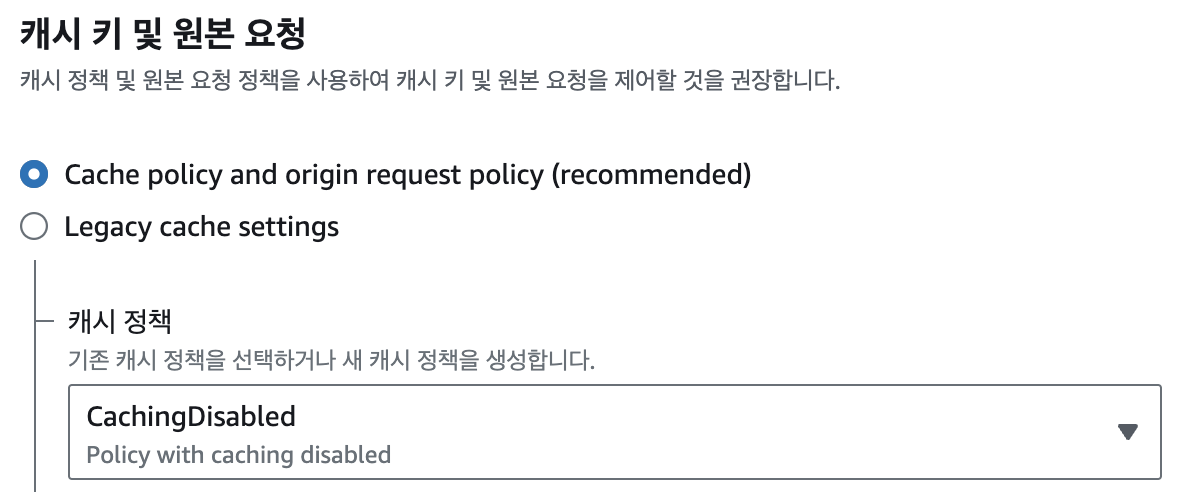
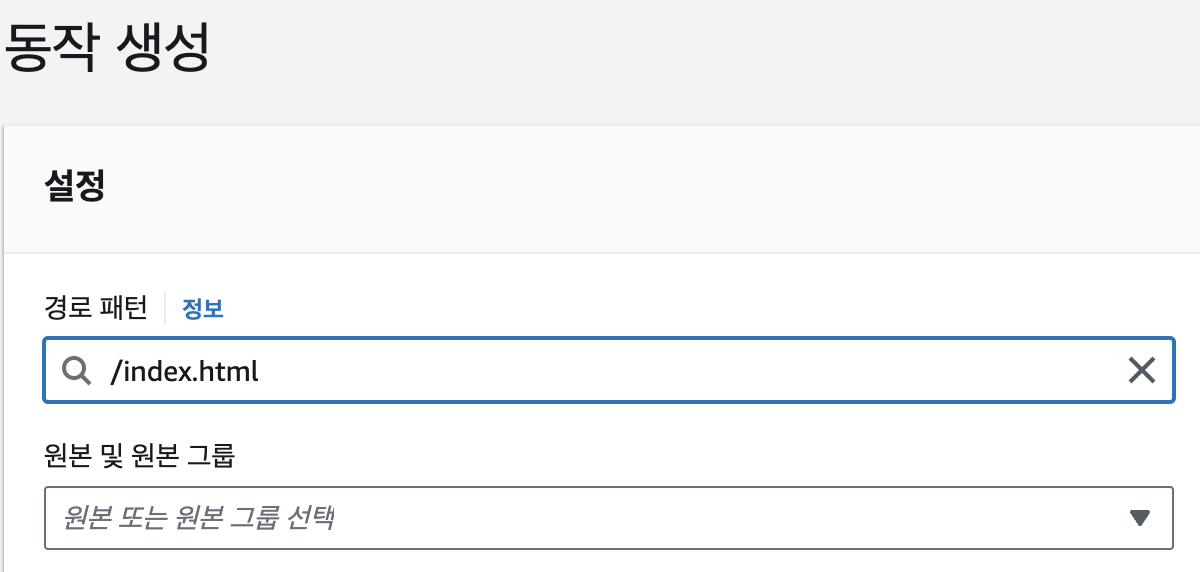
docs: "CloudFront와 HTTP 캐시" 내용 수정

diff --git a/contents/posts/http-cache/index.md b/contents/posts/http-cache/index.md
@@ -74,7 +74,7 @@ FE 배포는 성공적으로 마무리되었습니다.
 디스크에 저장해 두었다가 새로운 버전만 요청하면 훨씬 더 빠르지 않을까요?
 네트워크 통신 비용도 크게 줄일 수 있습니다.
 
-[HTTP 캐시](https://developer.mozilla.org/ko/docs/Web/HTTP/Caching)를 활용하면 같은 리소스는 네트워크를 거치지 않고 디스크나 메모리에서 바로 사용할 수 있습니다.
+[HTTP 캐시](https://developer.mozilla.org/ko/docs/Web/HTTP/Caching)를 활용하면 같은 리소스는 네트워크를 거치지 않고 디스크나 메모리에서 바로 사용할 수 있습니다!
 
 ### Cache-Control 헤더
 
@@ -96,8 +96,8 @@ FE 배포는 성공적으로 마무리되었습니다.
 
 ### 캐시 버스팅
 
-클라이언트는 **파일 이름이 다르면** 다른 리소스라고 판단할 수 있습니다.
-그래서 webpack으로 번들을 만들 때, 파일명에 해시를 줘서 캐시 버스팅을 했습니다.
+클라이언트는 GET 요청을 할 때 URL이 다르면 다르면 다른 리소스라고 판단할 수 있습니다.
+그래서 **새로운 버전의 URL이 바뀔 수 있도록 번들에 해시**를 줘서 캐시 버스팅을 했습니다.
 
 아래는 번들 파일에 해시를 주는 webpack.config 설정입니다.
 
@@ -111,16 +111,21 @@ output: {
 }
 ```
 
-자세히 보면 chunkhash와 contenthash가 있는 것을 알 수 있습니다.
+이후 빌드된 번들에 해시가 들어간 모습입니다.
+
+![](.index_images/4.png)
+
+그런데 webpack.config를 자세히 보면 chunkhash와 contenthash가 있는 것을 알 수 있습니다.
 둘은 어떤 차이일까요?
 
 #### webpack 해시의 종류
 
-우선 하나의 엔트리 포인트에서 나온 파일들을 청크라고 부릅니다.  
+우선 하나의 엔트리 포인트에서 나온 파일들을 청크라고 부릅니다.
+webpack 설정으로 청크를 어떻게 나눌지는 커스텀할 수 있습니다.
+
 chunkhash는 청크를 기준으로 해시값을 주고, contenthash는 청크가 같더라도 각 파일의 내용을 기준으로 해시값을 줍니다.
 
 만약 하나의 청크에 하나의 파일이 나온다면 chunkhash를 줘도 무방합니다.
-
 하나의 청크에서 .js .css 처럼 여러 파일이 나온다면 contenthash로 더욱 뾰족하게 해싱할 수 있습니다.
 
 ### index.html은 예외
@@ -135,38 +140,41 @@ CloudFront의 동작 우선순위에서 예외처리해서 해결했습니다.
 
 index.html을 위한 동작을 위해 경로 패턴에 '/index.html'을 적어줍니다.
 
-![](.index_images/4.png)
+![](.index_images/5.png)
 
 캐시 정책은 CachingDisabled를 사용합니다.
 그리고 응답 헤더 정책은 주지 않습니다.
 
-![](.index_images/5.png)
+![](.index_images/6.png)
 
 완성된 모습입니다.
 
-![](.index_images/6.png)
+![](.index_images/7.png)
 
 이제 index.html도 최신 버전으로 잘 받아옵니다. 🎉🎉
 
 #### s-maxage + 무효화
 
-캐시를 안주는 방법만 있는 것은 아닙니다.
+HTML에 캐시를 안주는 방법만 있는 것은 아닙니다.
 응답 헤더 정책에서 Cache-Control의 s-maxage를 통해 CDN에서만 캐싱을 적용하고, 배포할 때 무효화를 해줄 수 있습니다.
-다만 무효화를 자동으로 하기 위해서는 추가적인 권한이 필요하고, 차이가 크지 않음을 확인해서 아직 적용하지 않았습니다.
+
+다만 무효화를 자동으로 하기 위해서는 추가적인 IAM 권한이 필요하고, 속도 차이가 크지 않음을 확인해서 아직 적용하지 않았습니다.
 
 ### HTTP 캐시를 한 달로 설정한 이유
 
-설정을 한 달로 하면 한달 후에는 같은 리소스도 새로 요청을 보냅니다. 왜 최대값인 1년으로 하지 않았을까요?
+설정을 한 달로 하면 한달 후에는 같은 리소스도 새로 요청을 보냅니다.
+왜 캐싱하는 시간을 최댓값인 1년으로 하지 않았을까요?
 
 HTTP 캐시는 사용자의 디스크나 메모리에 리소스를 저장합니다.
 만약 max-age를 최대값인 1년으로 설정하면 새로운 버전의 해시가 배포되어도 사용자는 이전 버전의 리소스를 1년간 가지고 있게 됩니다.
-그래서 서비스 배포 주기에 맞는 적절한 기간을 논의하여 한달로 설정하였습니다.
+
+그래서 서비스 배포 주기에 맞는 적절한 기간을 논의하여 한 달로 설정하였습니다.
 
 ## 정리
 
 HTTP 캐시는 처음 접해보는 분야이고 index.html은 예외를 줘야 한다는 점이 흥미로웠습니다!
-캐시하는 기간도 길다고 좋은게 아니었습니다.
-네트워크 트래픽을 줄이고 더 좋은 사용자 경험을 줄 수 있어서 뿌듯한 경험이 되었습니다.
+캐시하는 기간도 길다고 무조건 좋은게 아니었습니다.
+네트워크 트래픽을 줄이고 더 빠른 사용자 경험을 줄 수 있어서 뿌듯한 경험이었습니다.
 
 ### 참고한 자료
 
